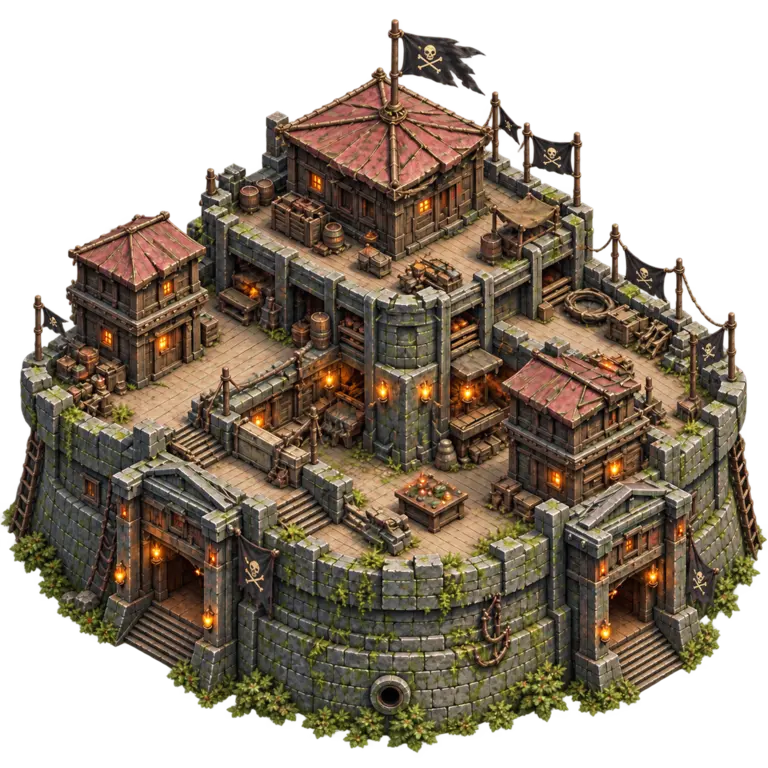
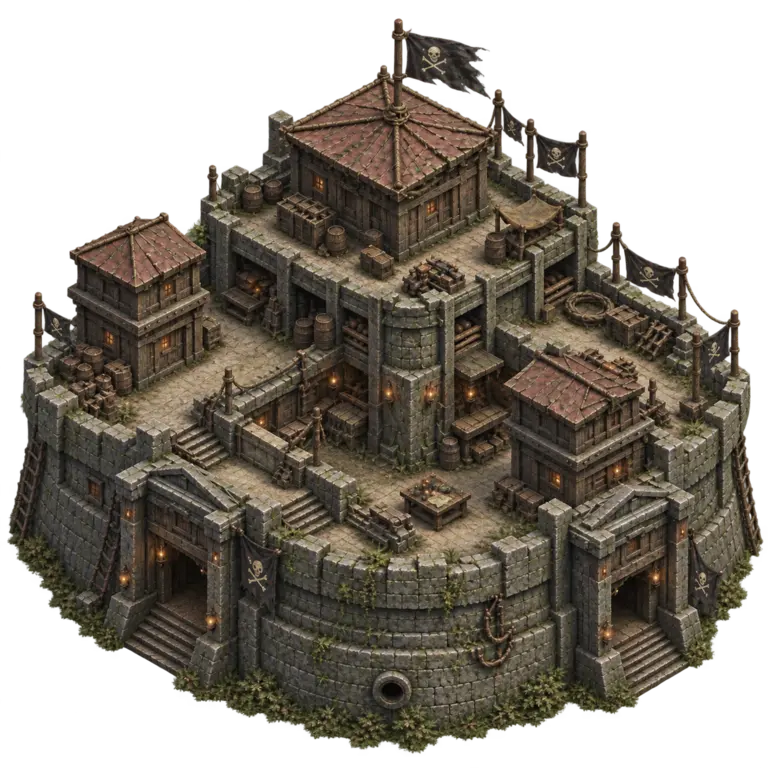
Install approved darker Pirate HQ art

diff --git a/public/hq/ART.md b/public/hq/ART.md
@@ -1,9 +1,9 @@
 # Approved Pirate HQ revision
 
-`hq_pirates_dark_v2.webp` is a 768px transparent WebP derived from the user-approved concept with the built-in image-generation tool. Original faction assets remain unchanged.
+`hq_pirates_dark_v2.webp` is a 768px transparent WebP derived from the user-approved darker revision with the built-in image-generation tool. Original faction assets remain unchanged.
 
 Concept prompt: Reinterpret the existing Pirate terraced stone fortress with faded red roofs as painterly dark-fantasy map art matching the resource sprites: mossy olive-grey stone, weathered timber, restrained warm windows, pirate banners, natural grass contact, no pale sand skirt. Show nearby wood, stone, food and gas for context.
 
-Final extraction prompt: Preserve the approved central fortress, architecture, roofs, flags, palette and isometric view. Isolate only the fortress and close-contact moss; remove surrounding resources, grass background and fog. Genuine transparent alpha; no broad ground skirt, platform, text or UI. Full object including flags.
+Final revision prompt: Preserve the approved fortress architecture and silhouette. Match the in-game terrain with finer natural stone, rough timber, desaturated roofs, lower contrast, softer diffuse light, dimmer windows and no glossy outlines. Genuine transparent alpha; no ground slab, props, text or UI.
 
 Converted to WebP at quality 88 with alpha retained. Rendering uses natural image proportions and a 0.97 vertical anchor. Only Pirate HQs within the existing 25-tile spawn test area use this revision. The other seven faction redesigns remain pending approval.

diff --git a/ReadMeAI.md b/ReadMeAI.md
@@ -11,10 +11,10 @@ Branch: codex/core-fixes-20260919
 ## 2026-09-20 — Codex
 
 ### HQ centering and neighboring-tile presentation
+- User approved and installed the revised Pirate HQ artwork: darker natural stone, weathered timber, desaturated roofs, softer light, dimmer windows and reduced cartoon-style outlines.
 - Corrected the approved Pirate HQ's ground anchor: its visible base now reaches the true south point of the 3x3 HQ footprint instead of sitting almost one tile too high.
 - Resource props on tiles immediately beside an HQ remain visible and keep their gameplay tile, but their artwork shifts slightly outward to prevent tall clusters crossing the base wall.
 - A selected tile beside an HQ keeps its full-size outline but omits only the edge shared with the HQ border. Other edges remain unchanged.
-- Created a more realistic, desaturated Pirate HQ revision as a chat preview. It is not installed until the user approves it.
 - No resources, tile positions, relocation rules, ownership, rates or hit areas changed.
 
 ---
